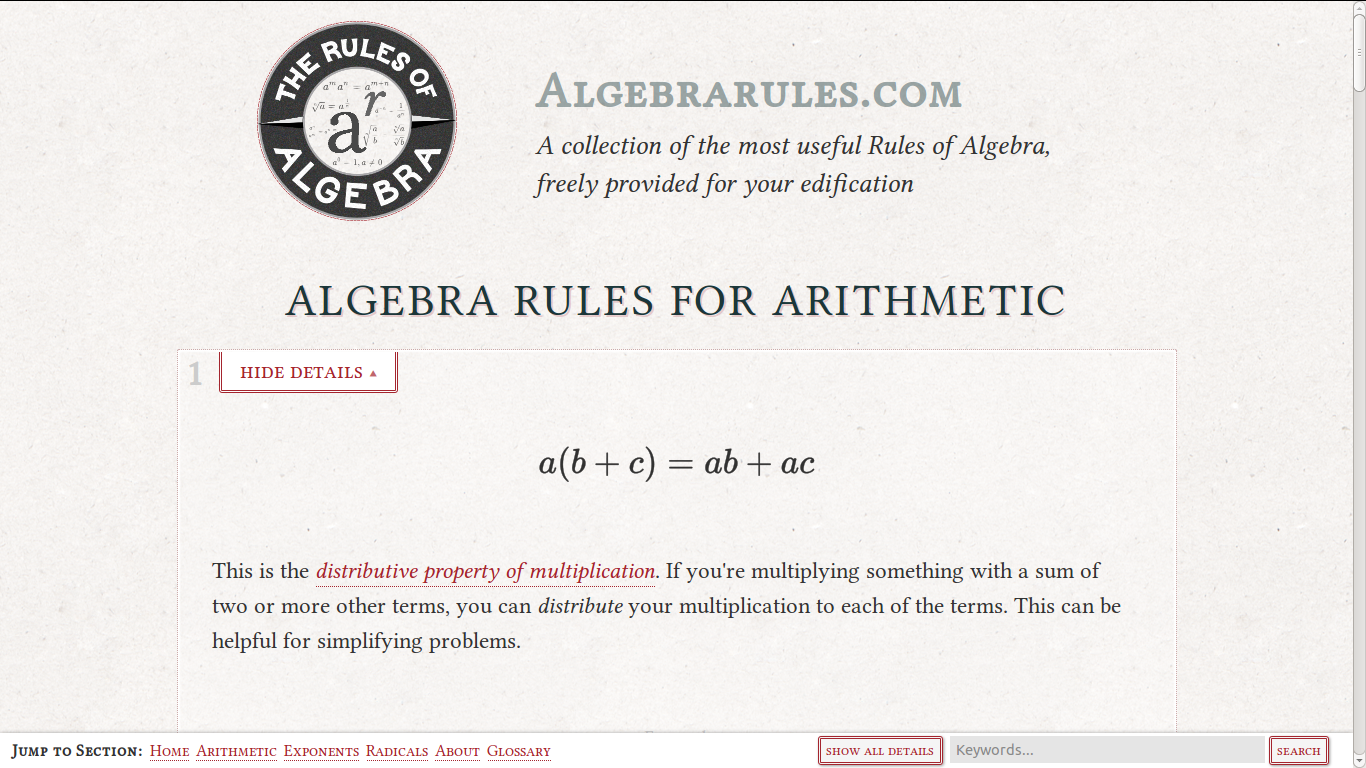
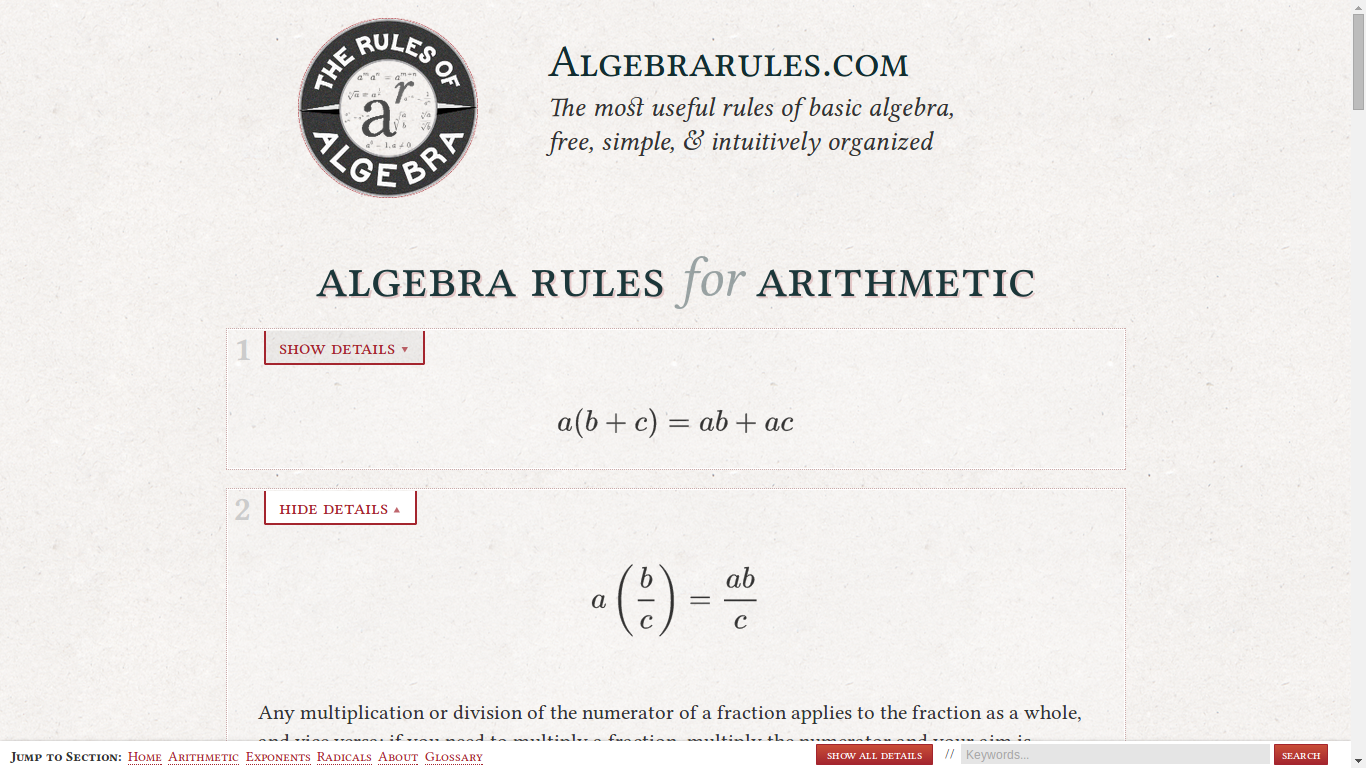
Updated algebrarules.com screenshots (and worked on getting a lightbox)

diff --git a/index.html b/index.html
@@ -165,6 +165,12 @@
   </div>
 
   <script src="js/baguetteBox.min.js" async></script>
+  <script type="text/javascript">
+    baguetteBox.run('.gallery', {
+  // Custom options
+});
+
+  </script>
 
 </body>
 </html>
